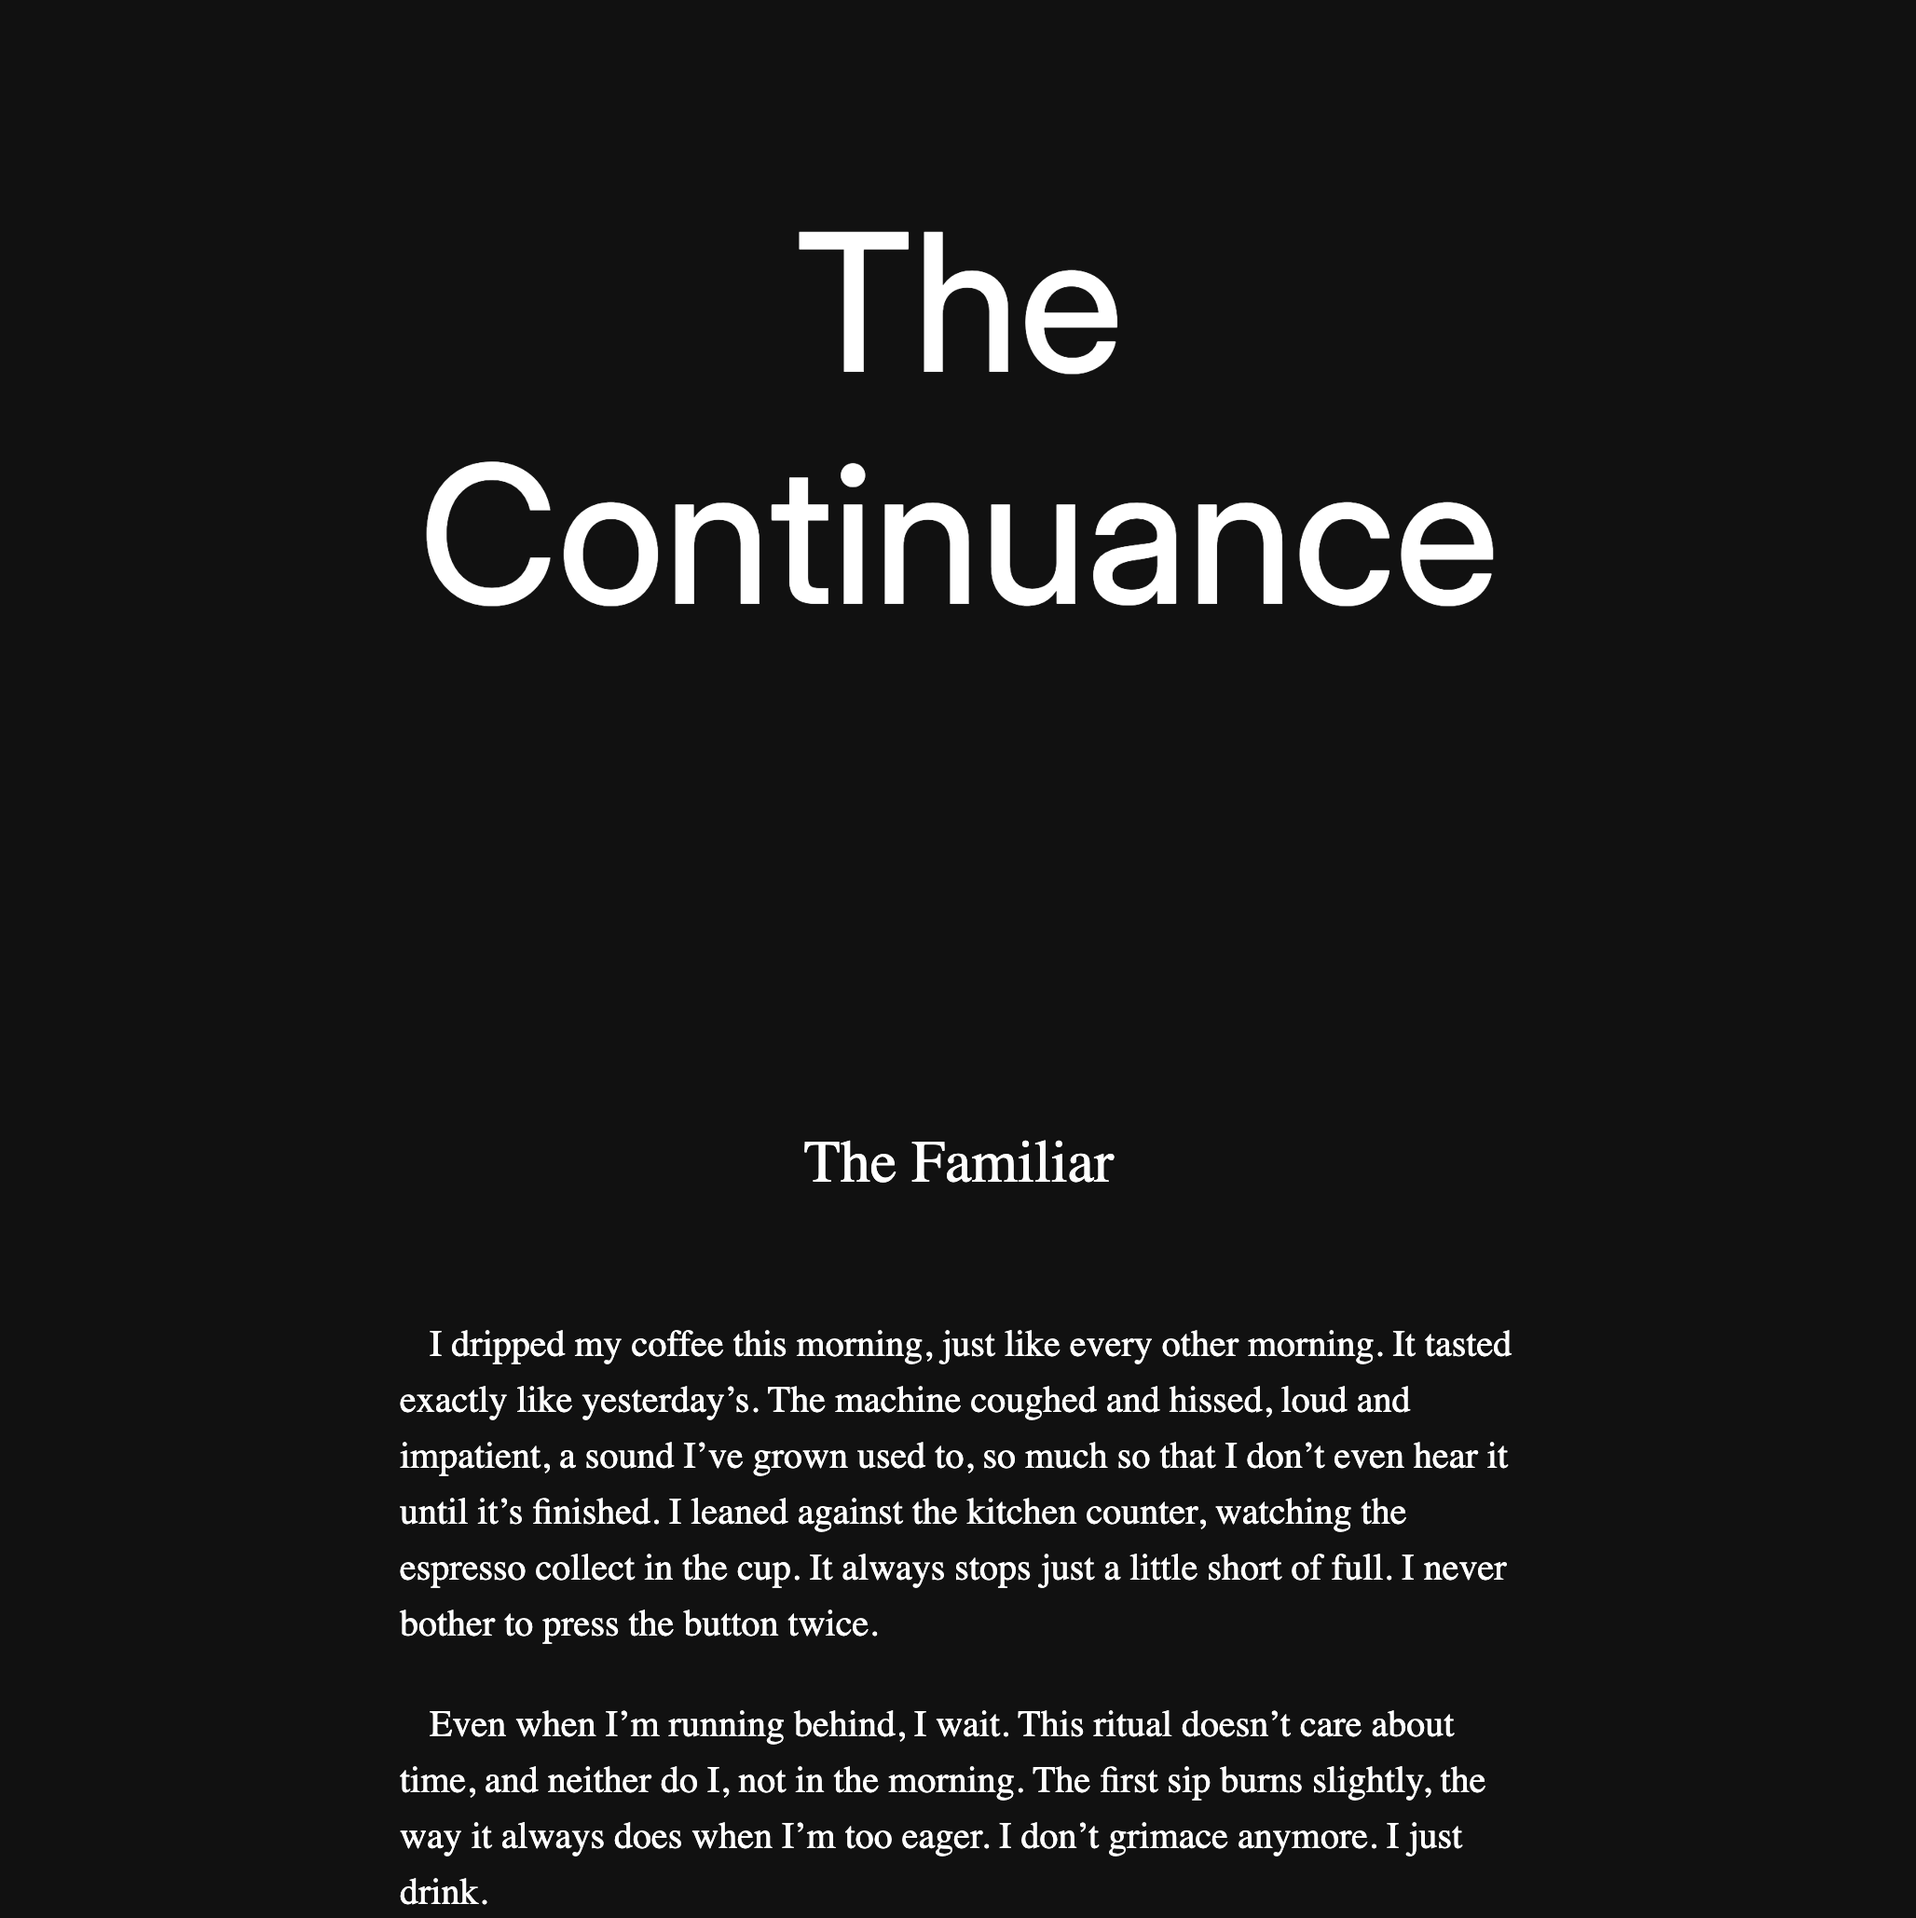
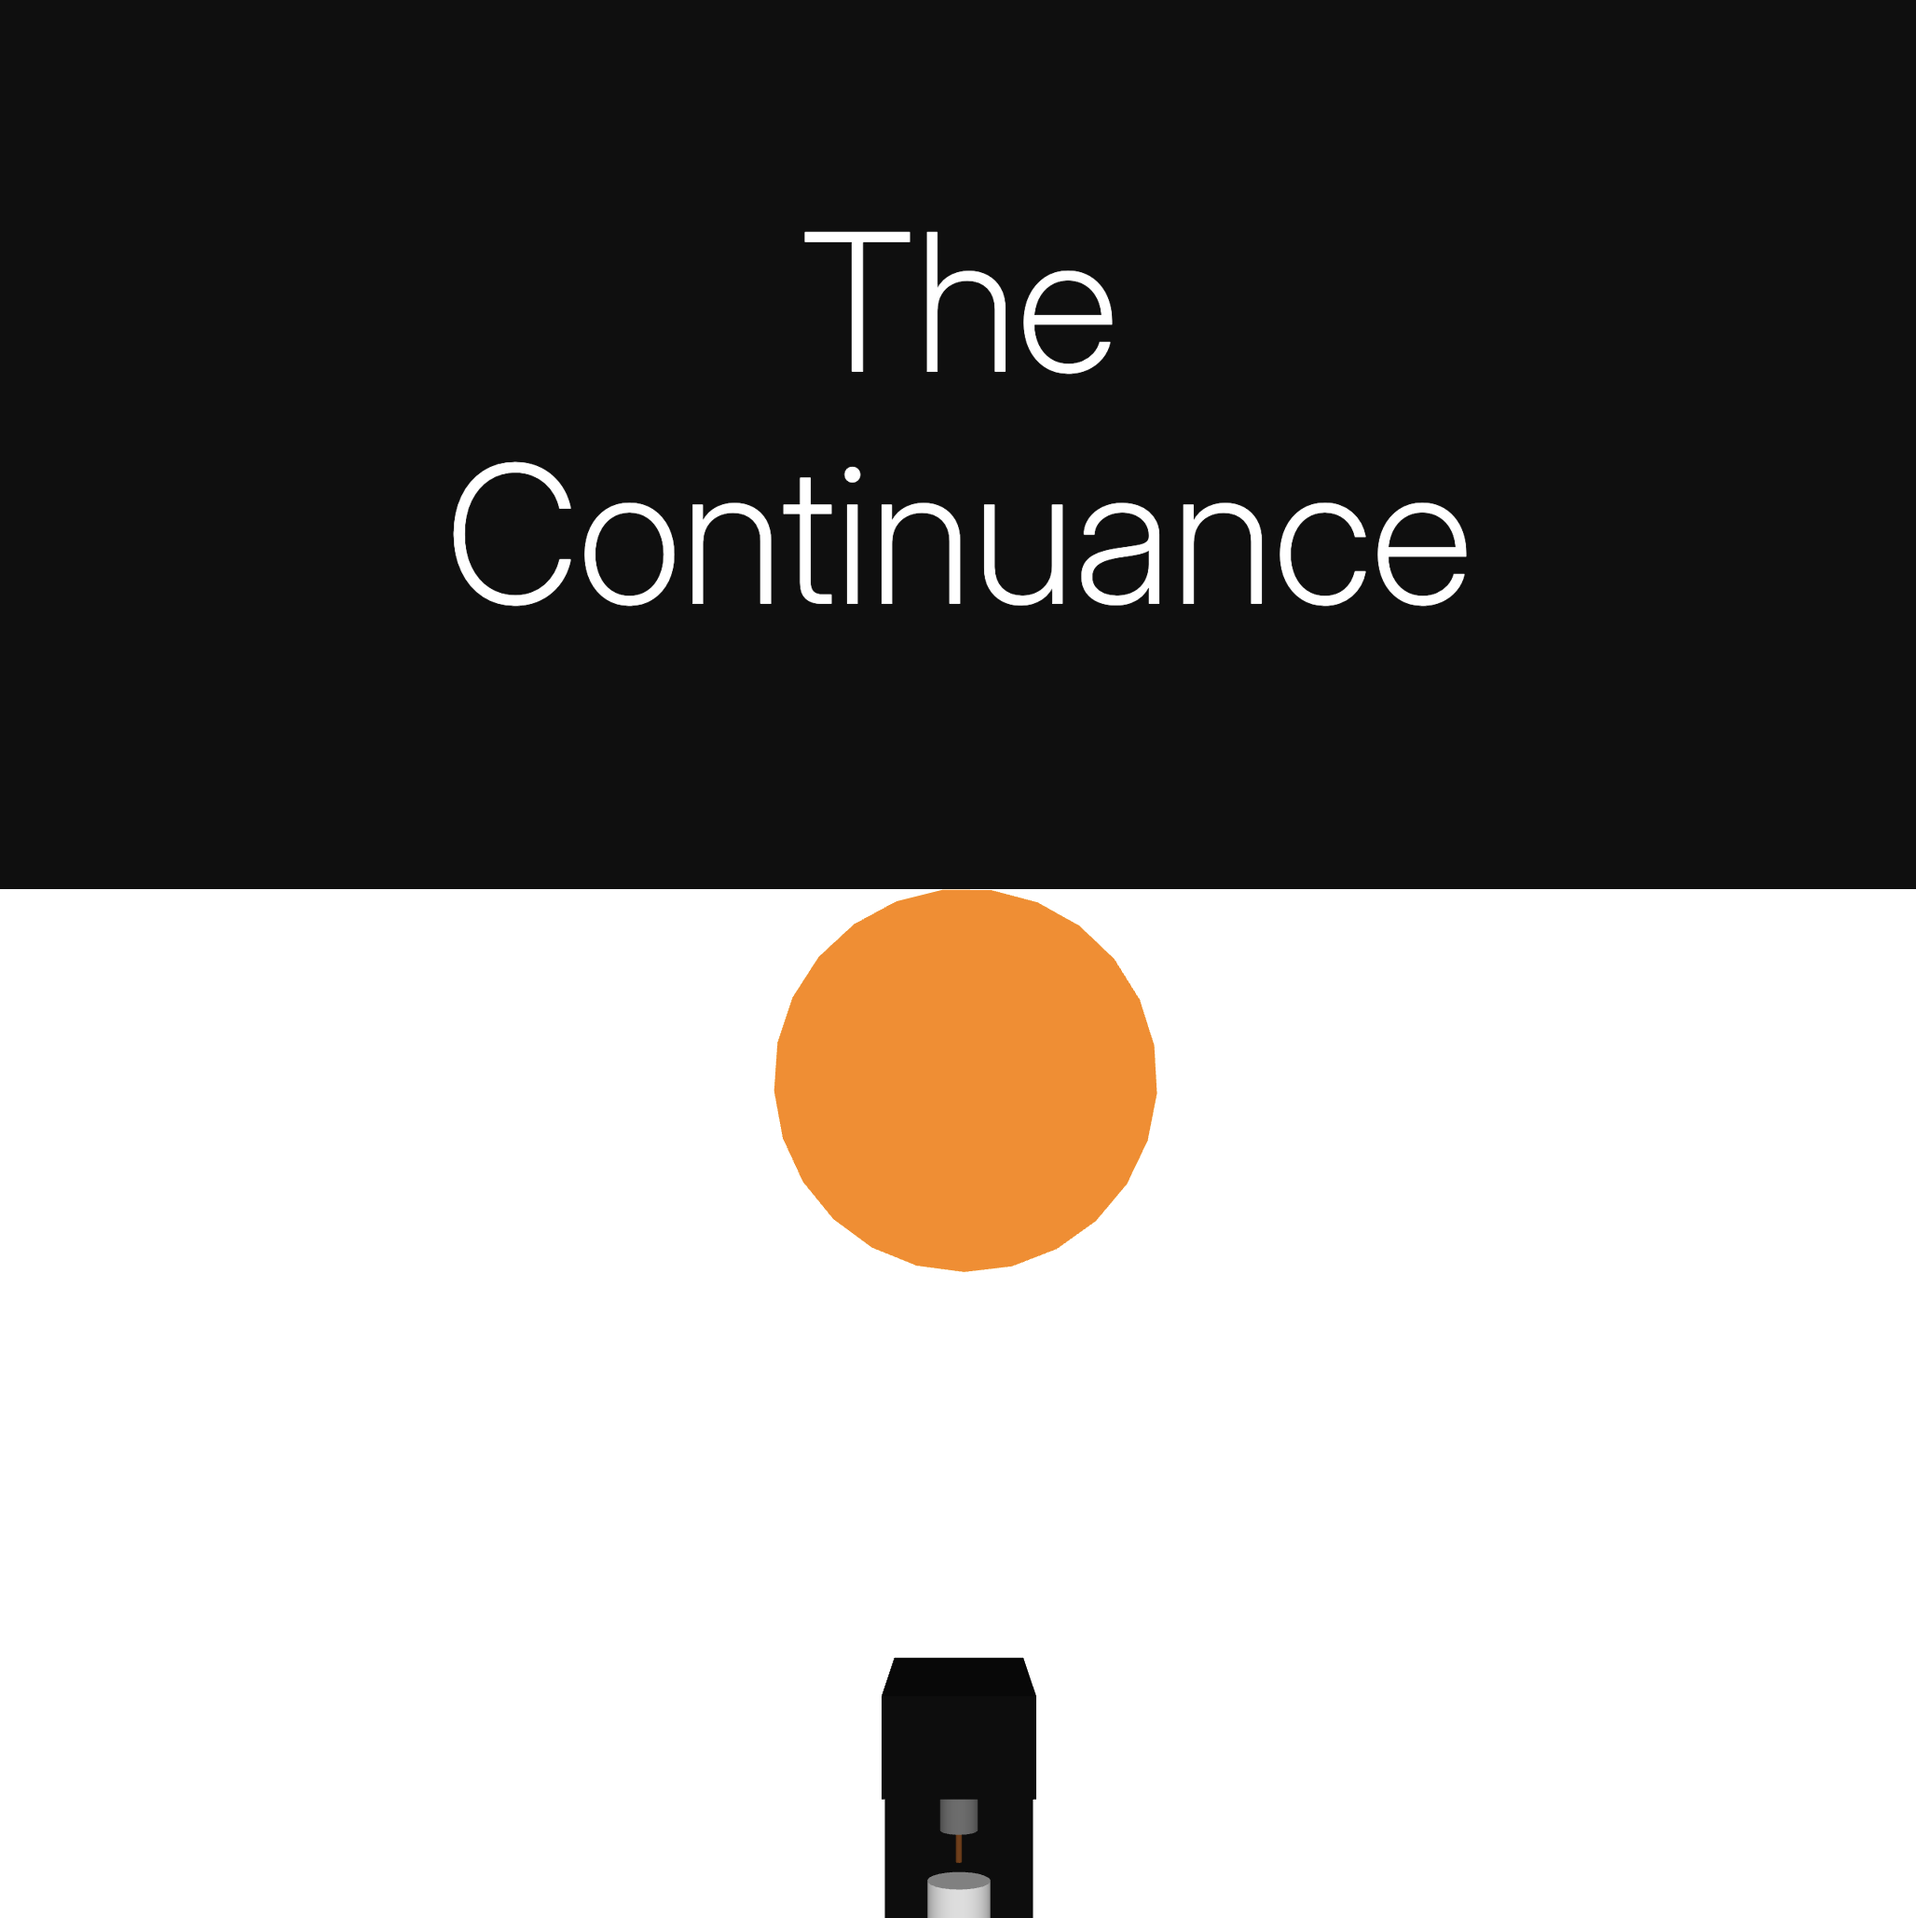
May 6 Updates

diff --git a/static/projects/continuance/the-coffee/sketch.js b/static/projects/continuance/the-coffee/sketch.js
@@ -22,6 +22,7 @@ let bodyPose;
 let poses = [];
 let targetX;
 let cameraRotation = 0;
+let isVisible = false;
 
 function preload() {
 	bodyPose = ml5.bodyPose({ flipped: true });
@@ -50,10 +51,34 @@ function setup() {
 	cupR = 25 * multiplier;
 	cupH = 50 * multiplier;
 
-	video = createCapture(VIDEO, { flipped: true });
-	video.size(width, height);
-	video.hide();
-	bodyPose.detectStart(video, gotPoses);
+	// Set up intersection observer
+	const observer = new IntersectionObserver(
+		(entries) => {
+			entries.forEach((entry) => {
+				isVisible = entry.isIntersecting;
+				if (isVisible) {
+					// Start camera when visible
+					if (!video) {
+						video = createCapture(VIDEO, { flipped: true });
+						video.size(width, height);
+						video.hide();
+						bodyPose.detectStart(video, gotPoses);
+					}
+				} else {
+					// Stop camera when not visible
+					if (video) {
+						video.remove();
+						video = null;
+						bodyPose.detectStop();
+					}
+				}
+			});
+		},
+		{ threshold: 0.5 }
+	); // Trigger when 50% of the iframe is visible
+
+	// Start observing the iframe
+	observer.observe(document.querySelector('main'));
 }
 
 function gotPoses(results) {
@@ -61,36 +86,36 @@ function gotPoses(results) {
 }
 
 function updateCameraRotation() {
-	if (poses.length > 0) {
-		let facePose = poses[0];
-		let validPoints = 0;
-		let sum = 0;
+	if (!isVisible || !poses.length) return;
 
-		// Using direct property access which is more reliable
-		const faceKeypoints = [
-			facePose.nose,
-			facePose.left_eye,
-			facePose.right_eye,
-			facePose.left_ear,
-			facePose.right_ear
-		];
+	let facePose = poses[0];
+	let validPoints = 0;
+	let sum = 0;
 
-		// Average facial keypoints
-		for (let i = 0; i < faceKeypoints.length; i++) {
-			if (faceKeypoints[i] && faceKeypoints[i].confidence > 0.3) {
-				sum += faceKeypoints[i].x;
-				validPoints++;
-			}
+	// Using direct property access which is more reliable
+	const faceKeypoints = [
+		facePose.nose,
+		facePose.left_eye,
+		facePose.right_eye,
+		facePose.left_ear,
+		facePose.right_ear
+	];
+
+	// Average facial keypoints
+	for (let i = 0; i < faceKeypoints.length; i++) {
+		if (faceKeypoints[i] && faceKeypoints[i].confidence > 0.3) {
+			sum += faceKeypoints[i].x;
+			validPoints++;
 		}
+	}
 
-		if (validPoints > 0) {
-			// Calculate normalized position (-1 to 1)
-			let normalizedX = (sum / validPoints / width) * 2 - 1;
-			// Map to rotation angle (30 to -30 degrees, inverted)
-			let targetRotation = map(normalizedX, -1, 1, 30, -30);
-			// Smoothly transition to new rotation
-			cameraRotation = lerp(cameraRotation, targetRotation, 0.1);
-		}
+	if (validPoints > 0) {
+		// Calculate normalized position (-1 to 1)
+		let normalizedX = (sum / validPoints / width) * 2 - 1;
+		// Map to rotation angle (30 to -30 degrees, inverted)
+		let targetRotation = map(normalizedX, -1, 1, 30, -30);
+		// Smoothly transition to new rotation
+		cameraRotation = lerp(cameraRotation, targetRotation, 0.1);
 	}
 }
 

diff --git a/src/lib/data/ProjectData.ts b/src/lib/data/ProjectData.ts
@@ -175,21 +175,5 @@ export const projectData: Project[] = [
 		<p style="margin-block-start: 0;">
 			This work is a complemntary piece to the other projects in this collection.
 		</p>`
-	},
-	{
-		title: 'The Coffee',
-		slug: 'the-coffee',
-		route: '/projects/the-coffee',
-		thumbnail: '/projects/the-coffee/thumb.png',
-		guide: 'No interaction required.',
-		excerpt: 'A fictional story of an artist finding their way through a mundane cycle',
-		description: `<p style="margin-block-start: 0;">
-			The Continuance is a finctional story of an artist finding their way through a mundane cycle.
-			It is a tranquil journey of realizing patterns in our daily lives, facing a wall of uncertainty,
-			and finding a way to continue.
-		</p>
-		<p style="margin-block-start: 0;">
-			This work is a complemntary piece to the other projects in this collection.
-		</p>`
 	}
 ];

diff --git a/static/projects/continuance/script.js b/static/projects/continuance/script.js
@@ -48,3 +48,27 @@ window.addEventListener('DOMContentLoaded', () => {
 			});
 	});
 });
+
+// // Wait for the page to load
+// window.addEventListener('load', () => {
+// 	// Get the iframe element
+// 	const iframe = document.querySelector('.cofee iframe');
+
+// 	// Add wheel event listener to the iframe
+// 	iframe.addEventListener(
+// 		'wheel',
+// 		(e) => {
+// 			// Prevent default to avoid double scrolling
+// 			e.preventDefault();
+
+// 			// Create and dispatch a new wheel event
+// 			const wheelEvent = new WheelEvent('wheel', {
+// 				deltaY: e.deltaY,
+// 				deltaMode: e.deltaMode,
+// 				bubbles: true
+// 			});
+// 			document.dispatchEvent(wheelEvent);
+// 		},
+// 		{ passive: false }
+// 	);
+// });

diff --git a/static/projects/continuance/style.css b/static/projects/continuance/style.css
@@ -1,5 +1,9 @@
 html {
-	background-color: #111;
+	background-color: #0f0f0f;
+}
+
+body {
+	margin: 0;
 }
 
 .title {
@@ -37,4 +41,12 @@ html {
 	font-size: 1.25rem;
 	line-height: 1.5;
 	margin-bottom: 1.2em;
+}
+
+.cofee iframe {
+	border: none;
+	width: 100vw;
+	height: 60vh;
+	display: block;
+	margin: 8rem auto 0 auto;
 }

diff --git a/static/projects/continuance/index.html b/static/projects/continuance/index.html
@@ -11,6 +11,9 @@
 	<body>
 		<main>
 			<div class="title">The<br />Continuance</div>
+			<div class="cofee">
+				<iframe src="the-coffee/index.html" scrolling="no"></iframe>
+			</div>
 			<div class="text">
 				<h2>The Familiar</h2>
 				<div id="familiar"></div>

diff --git a/static/projects/continuance/the-coffee/style.css b/static/projects/continuance/the-coffee/style.css
@@ -2,9 +2,9 @@ html,
 body {
 	margin: 0;
 	padding: 0;
+	background-color: #111;
 	overflow: hidden;
 	font-family: 'Inter', sans-serif;
-	background-color: #ffffff; /* Sand-like background color */
 }
 
 canvas {

diff --git a/static/projects/incense/style.css b/static/projects/incense/style.css
@@ -4,7 +4,7 @@ body {
 	padding: 0;
 	overflow: hidden;
 	font-family: 'Inter', sans-serif;
-	background-color: #ffffff; /* Sand-like background color */
+	background-color: #ffffff;
 }
 
 canvas {

diff --git a/static/projects/zen-garden/style.css b/static/projects/zen-garden/style.css
@@ -4,7 +4,7 @@ body {
 	padding: 0;
 	overflow: hidden;
 	font-family: 'Inter', sans-serif;
-	background-color: #ffffff; /* Sand-like background color */
+	background-color: #ffffff;
 }
 
 canvas {
